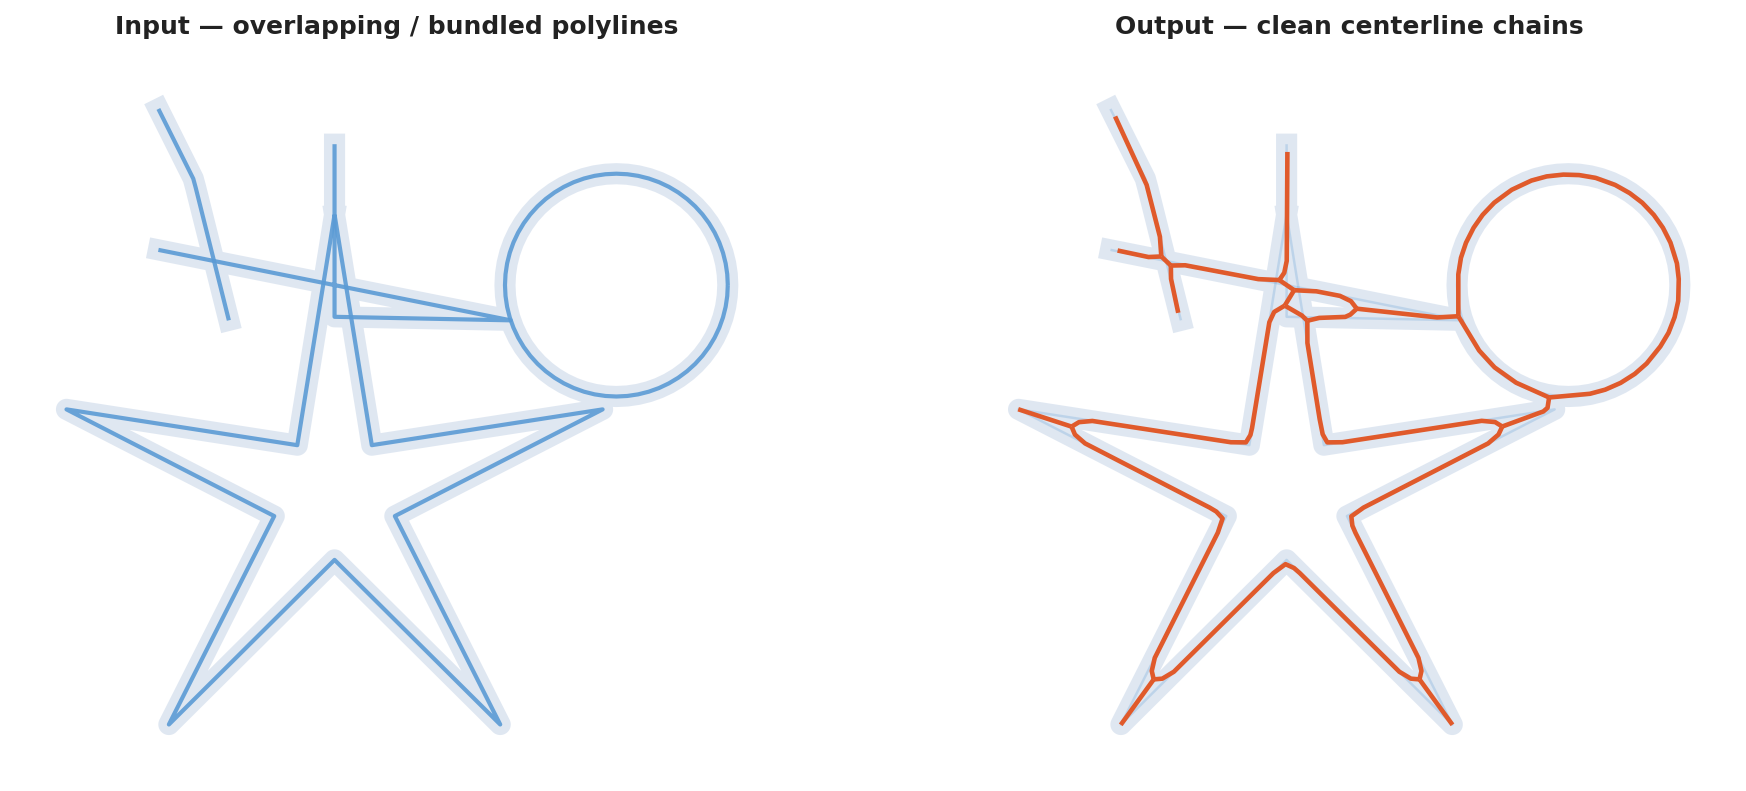
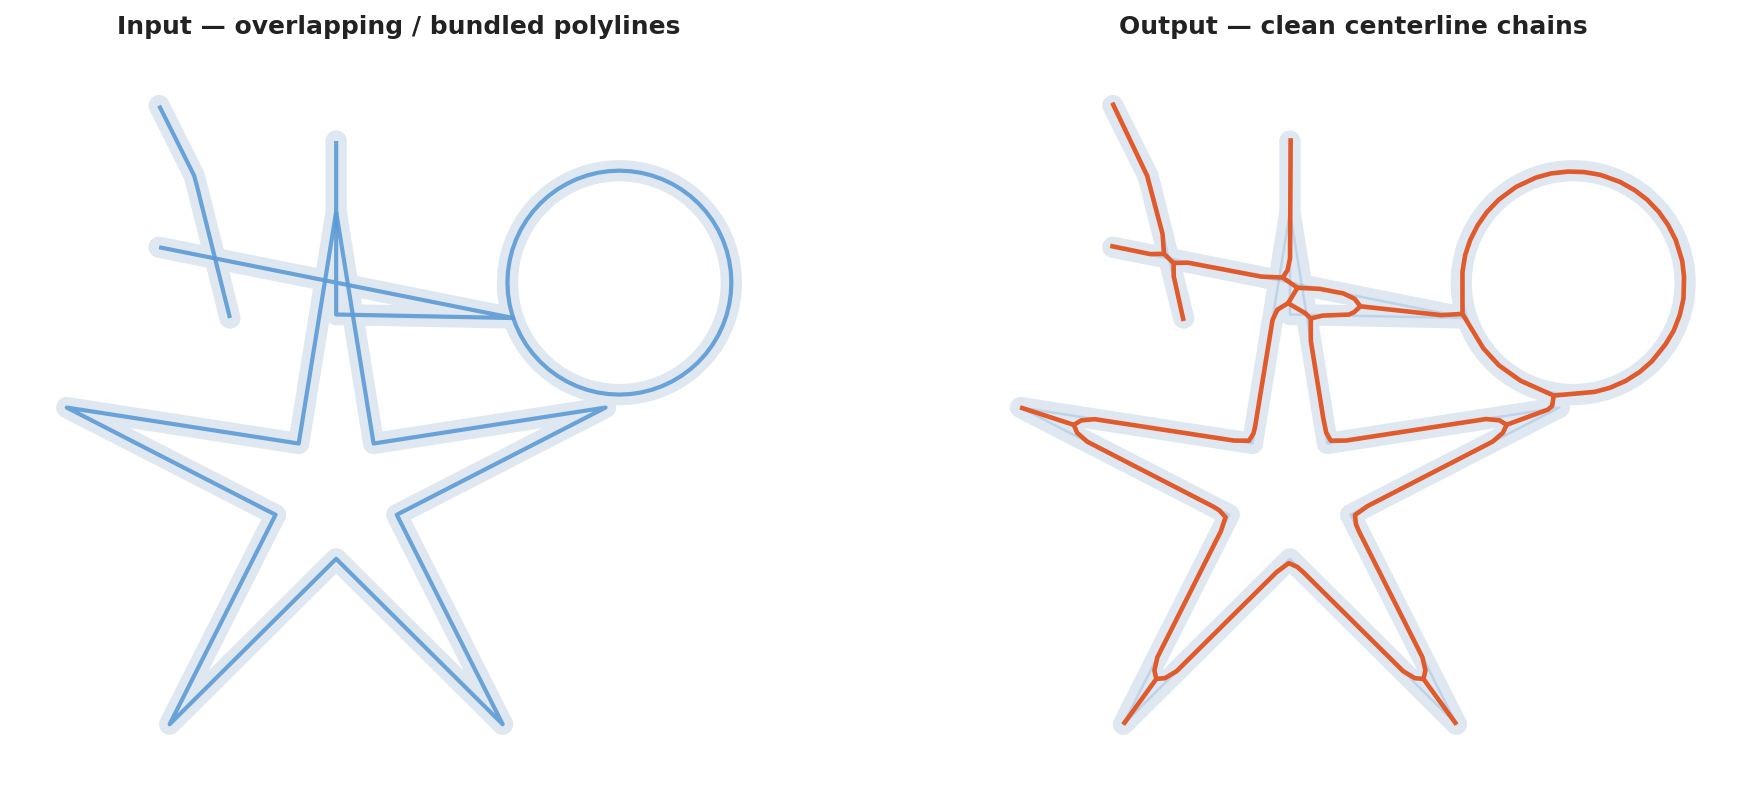
Smoother end caps: lower ARC_TOL_FACTOR from 0.5 to 0.2 (~5 arc segments per semicircle vs ~3)

diff --git a/src/inflate.rs b/src/inflate.rs
@@ -5,11 +5,12 @@ use clipper2_rust::{area, inflate_paths_d, union_subjects_d, EndType, FillRule, 
 
 type Pt = (f64, f64);
 
-// arc_tolerance = 0.4 × buffer_distance → ~2 arc segments per semicircular cap.
+// arc_tolerance = factor × buffer_distance controls end-cap smoothness.
 // Formula: steps = π / arccos(1 - arc_tol / delta)
-// at 0.4: steps ≈ π / arccos(0.6) ≈ π / 0.927 ≈ 3.4  (rounds to 3)
-// at 0.5: steps ≈ π / arccos(0.5) ≈ π / 1.047 ≈ 3.0  (2 midpoints → 2 segs)
-const ARC_TOL_FACTOR: f64 = 0.5;
+// at 0.50: steps ≈ 3.0  (2 midpoints — visibly polygonal)
+// at 0.20: steps ≈ 4.9  (~5 segments — smooth)
+// at 0.10: steps ≈ 7.0  (7 segments — very smooth, more points)
+const ARC_TOL_FACTOR: f64 = 0.2;
 
 /// Inflate a list of polylines by `buffer_distance`, union all results,
 /// and return as (outer, holes) polygon pairs.
